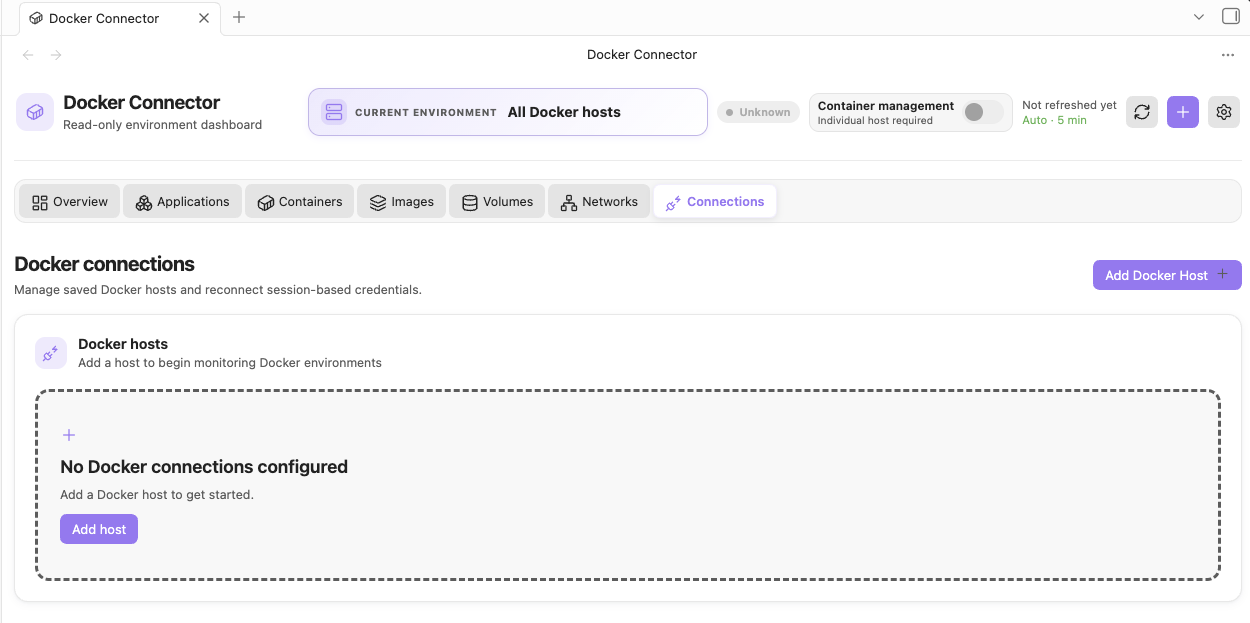
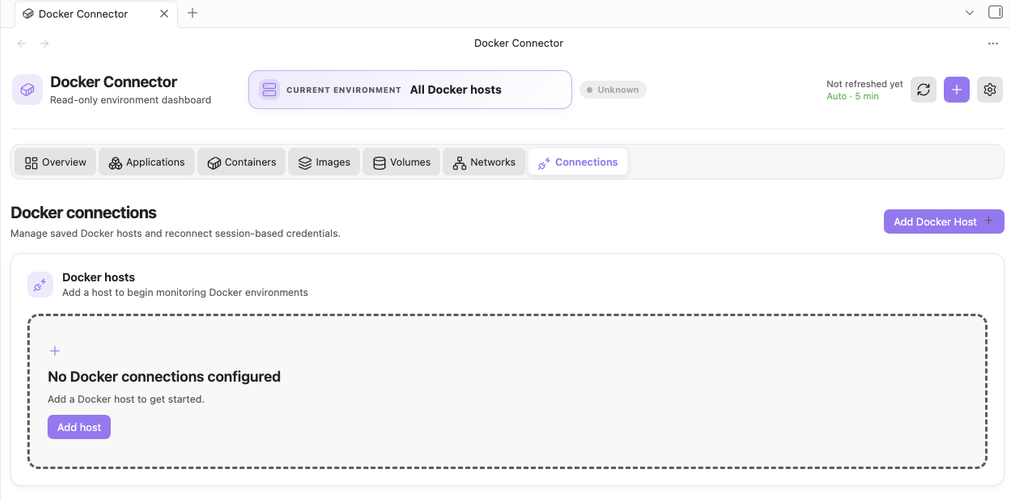
Replace screenshots 01 and 02
Both retaken without the header container-management switch, which no longer
exists. 1010px wide, so the guide's 880px cap is unchanged.

The recapture list drops to 10. Screenshots that differ only in letter case
are deliberately kept as they are: 09, 11, 12, 13, 14, 15, 16, 17 and 30 show
labels like Test Connection and In Use where the interface now reads Test
connection and In use. 18 and 20 stay on the list, but for the header switch
rather than their casing.

Claude-Session: https://claude.ai/code/session_01PdbPpb29X3tFzQC5aHqcYn

diff --git a/docs/Docker Connector - Screenshot Recapture.md b/docs/Docker Connector - Screenshot Recapture.md
@@ -4,31 +4,24 @@ tags: [docker-connector, documentation, screenshots]
 
 # Screenshot recapture
 
-21 of the 41 User Guide screenshots predate UI changes and need retaking. Each row was checked by opening the image, not inferred from its caption. Images live in `docs/images/user-guide/`; the guide sizes each one to at most 880px and centres it.
+10 User Guide screenshots still need retaking, because what they show has structurally changed: a control that no longer exists, a dialog that is now an Obsidian modal, duplicated data since deduplicated, or a block that did not exist yet. Each row was checked by opening the image.
 
-The other 20 are current: 03, 04, 05, 06, 07, 08, 10, 24, 25, 26, 27, 28, 29, 31, 32, 33, 34, 36, 37, 39.
+01 and 02 were replaced on 28-Aug-2026.
+
+Screenshots whose only difference is letter case are deliberately left as they are: 09, 11, 12, 13, 14, 15, 16, 17 and 30 show title-case labels such as **Test Connection** or **In Use** where the interface now reads **Test connection** and **In use**. They are not being recaptured.
+
+Images live in `docs/images/user-guide/`; the guide sizes each one to at most 880px and centres it.
 
 ## Recapture list
 
 | ✓ | # | File | What the current image shows | What the new image must show |
 | --- | --- | --- | --- | --- |
-| [ ] | 01 | `01-empty-connections.png` | Connections tab empty state. Header carries a **Container management / Individual host required** switch. Button reads **Add Docker Host** | No header switch. Button reads **Add Docker host** |
-| [ ] | 02 | `02-dashboard-overview.png` | Overview, zeroed metric cards, *No Docker hosts yet*. Header carries the **Container management** switch | Same view without the header switch |
-| [ ] | 09 | `09-ssh-connection-success.png` | SSH password diagnostics. Footer **Test Connection** / **Save Host**. Username correctly blurred | Footer **Test connection** / **Save host** |
-| [ ] | 11 | `11-generate-ssh-key.png` | Modal titled **Generate SSH Key** | Title **Generate SSH key** |
-| [ ] | 12 | `12-ssh-private-key-selection.png` | **Add Docker Host**, Friendly **N**ame, Connection **T**ype, SSH **H**ost/**P**ort/**U**sername, **Private Key**, Selected **P**rivate **K**ey **F**ile, Generate SSH **K**ey, Private-**K**ey Passphrase, Public **K**ey, Remote Docker **S**ocket, Test **C**onnection, Save **H**ost | All sentence case. Authentication dropdown reads **Private key** |
-| [ ] | 13 | `13-ssh-key-generation-complete.png` | Authentication-details crop: Selected **P**rivate **K**ey **F**ile, Generate SSH **K**ey, Private-**K**ey Passphrase, Public **K**ey, Remote Docker **S**ocket | All sentence case |
-| [ ] | 14 | `14-install-public-key.png` | Modal **Install Public Key**, field **Current SSH Password** | **Install public key**, field **Current SSH password** |
-| [ ] | 15 | `15-private-key-test-success.png` | Private-key diagnostics, **Test Connection** / **Save Host**. Username already redacted | Footer **Test connection** / **Save host**. Keep the username redacted |
-| [ ] | 16 | `16-remote-docker-api-mtls.png` | **Add Docker Host**, Connection **T**ype, Docker API **P**ort, Server **N**ame, CA **C**ertificate, Client **C**ertificate, Client **P**rivate **K**ey, Client-**K**ey Passphrase | All sentence case |
-| [ ] | 17 | `17-local-test-success.png` | **Edit Docker Host**, Endpoint **T**ype = **Unix Socket**, Docker **E**ndpoint, **Detect Local Docker** | **Edit Docker host**, Endpoint type = Unix socket, Docker endpoint, Detect local Docker |
-| [ ] | 18 | `18-connections-overview.png` | Five cards. Header switch, **Add Docker Host**, Context card button **Refresh Context Metadata** | No header switch. **Add Docker host**, **Refresh context metadata** |
+| [ ] | 18 | `18-connections-overview.png` | Five cards. Header switch, **Add Docker Host**, Context card button **Refresh Context Metadata** | No header switch. Label casing is not the reason for this one |
 | [ ] | 19 | `19-authentication-required-reconnect.png` | Authentication-required card: pill, Reconnect, zeroed inventory, *Docker details unavailable* | Card now also carries a **failure-reason line** — lock icon and the server's own reason — above the endpoint row |
-| [ ] | 20 | `20-delete-connection.png` | Delete modal ending *…and Docker **C**ontexts are not deleted.* Behind it, the header switch and **Add Docker Host** | *…and Docker contexts are not deleted.* No header switch. **Add Docker host** |
+| [ ] | 20 | `20-delete-connection.png` | Delete modal ending *…and Docker **C**ontexts are not deleted.* Behind it, the header switch and **Add Docker Host** | No header switch behind the modal. Label casing is not the reason for this one |
 | [ ] | 21 | `21-current-environment.png` | Header crop, environment dropdown open, **Container management / Unavailable** switch | Same dropdown, no management switch |
 | [ ] | 22 | `22-applications-list.png` | **20 applications, every one duplicated** (gitea ×2, owncloud ×2, …). Header switch present | **10 applications, no duplicates.** No header switch |
 | [ ] | 23 | `23-application-inspector.png` | Application inspector, 10 apps. Header switch. A tooltip *Open owncloud-db in Containers* overlaps a card | No header switch, and no stray tooltip |
-| [ ] | 30 | `30-volumes-view.png` | Volume cards badged **In Use** | Badges read **In use** |
 | [ ] | 35 | `35-management-confirmation.png` | **Native browser dialog**, OS-styled: *Enable container management for …?* with **Cancel / OK** | **Obsidian modal** titled *Enable container management*, a details row naming the Docker host, buttons **Cancel / Enable management** |
 | [ ] | 38 | `38-action-confirmation.png` | **Native browser dialog** *Stop container?* listing Container / Image / Docker host, **Cancel / OK** | **Obsidian modal** titled *Stop container*, the three as labelled rows, red **Stop** button |
 | [ ] | 40 | `40-start-confirmation.png` | **Native browser dialog** *Start container?*, **Cancel / OK** | **Obsidian modal** titled *Start container*, accent **Start** button — start is not destructive, so it is not red |
@@ -36,14 +29,15 @@ The other 20 are current: 03, 04, 05, 06, 07, 08, 10, 24, 25, 26, 27, 28, 29, 31
 
 ## Why each is stale
 
-| Cause | Landed | Screenshots |
+| Cause | Landed | Screenshots still to retake |
 | --- | --- | --- |
-| Header **Container management** switch removed | 26-Aug-2026 22:43 | 01, 02, 18, 20, 21, 22, 23 |
+| Header **Container management** switch removed | 26-Aug-2026 22:43 | 18, 20, 21, 22, 23 |
 | Inventories deduplicated by Docker daemon | 26-Aug-2026 23:09 | 22 |
-| UI text moved to sentence case | 27-Aug-2026 21:14 | 09, 11, 12, 13, 14, 15, 16, 17, 18, 20, 30 |
 | About and support footer added to settings | 27-Aug-2026 23:09 | 41 |
 | Browser confirm dialogs replaced by an Obsidian modal | 27-Aug-2026 23:44 | 35, 38, 40 |
 | Connection card states its failure reason | 28-Aug-2026 11:04 | 19 |
+
+Sentence case landed on 27-Aug-2026 21:14 and affects 09, 11, 12, 13, 14, 15, 16, 17, 18, 20 and 30. Only 18 and 20 are being retaken, and for other reasons; the rest are accepted as they are.
 
 Two renames are invisible and need no recapture: the metric card labels and the dialog section headings are uppercased by CSS, so `Updates Available` to `Updates available` and `Authentication Details` to `Authentication details` do not change what is on screen.
 
